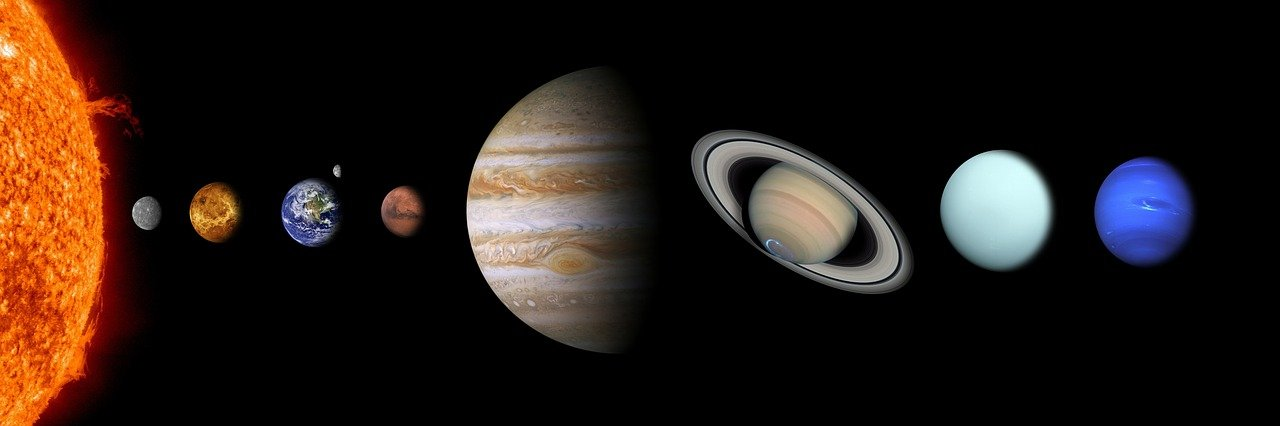
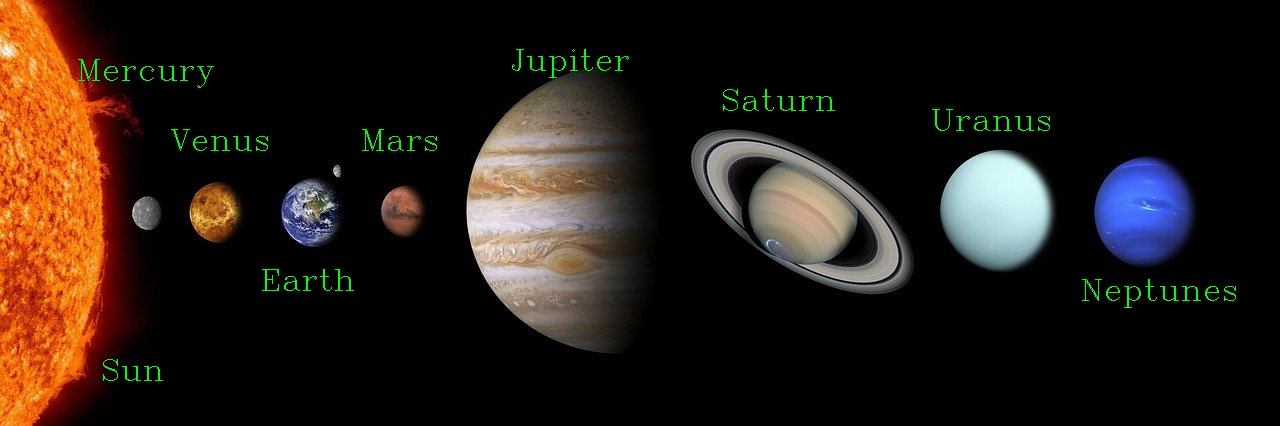
Add files via upload

diff --git a/solar-plant.py b/solar-plant.py
@@ -12,5 +12,5 @@ cv2.putText(img,"Uranus",(930,130),fontFace = cv2.FONT_HERSHEY_COMPLEX,fontScale
 cv2.putText(img,"Neptunes",(1080,300),fontFace = cv2.FONT_HERSHEY_COMPLEX,fontScale = 1,color = (0,255,0))
 
 cv2.imshow("solar system" ,img)
-
 cv2.waitKey(0)
+cv2.imwrite("solar-system.jpg",img)
